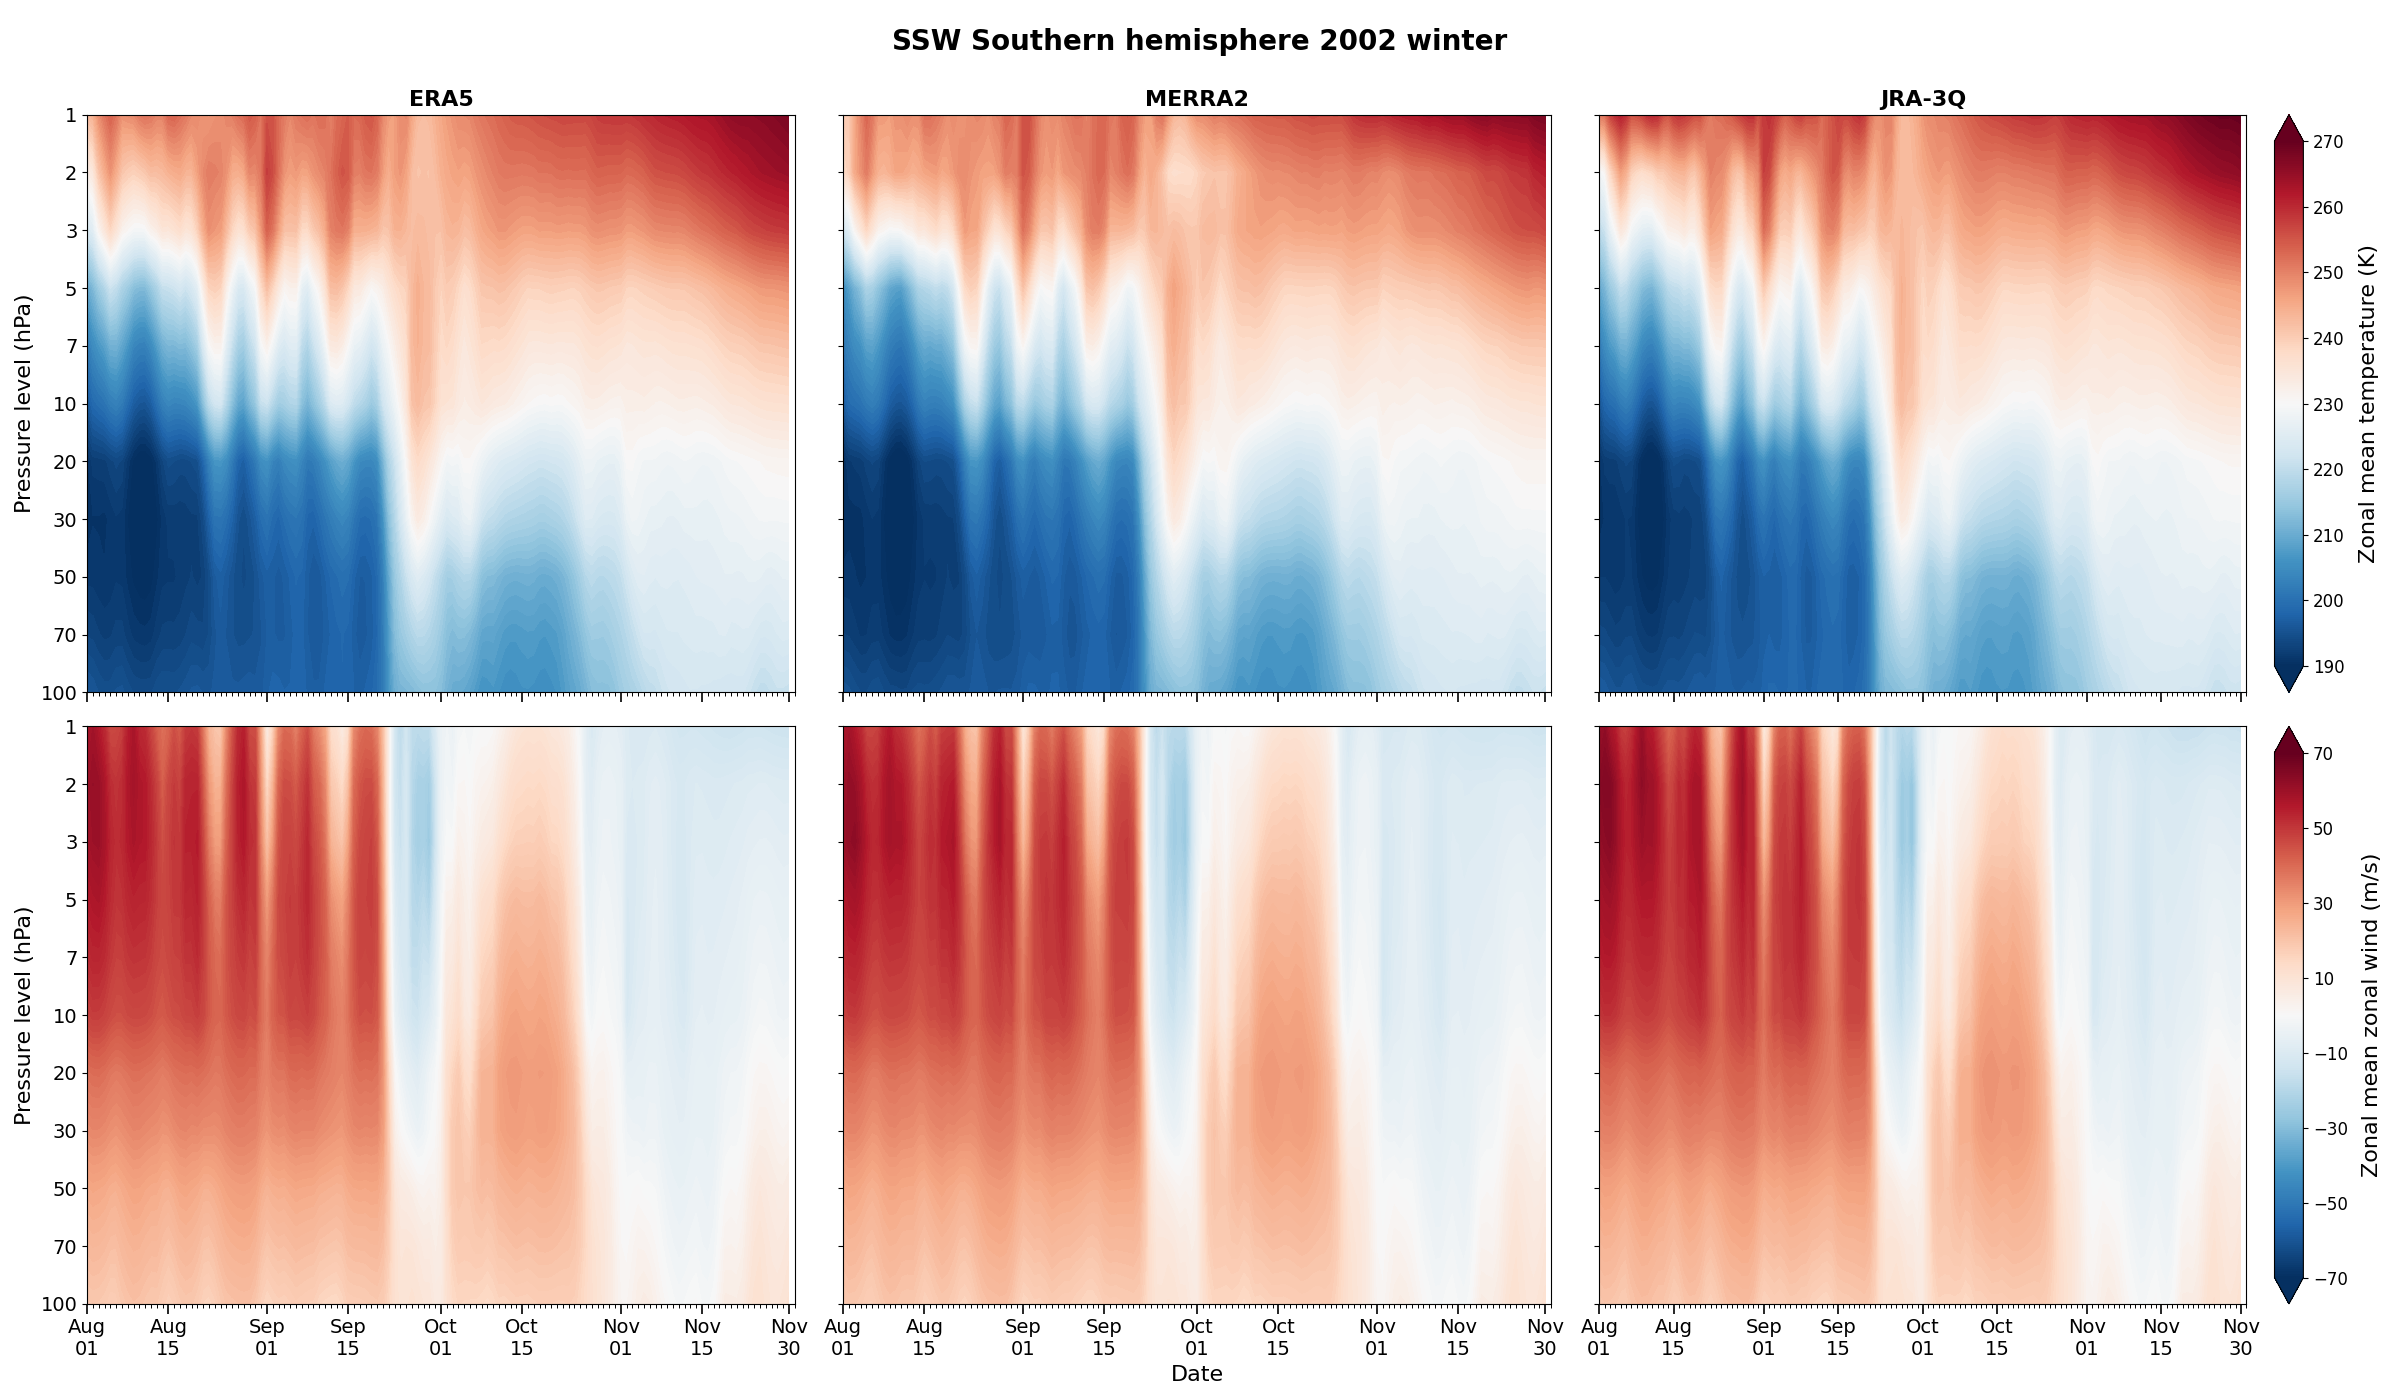
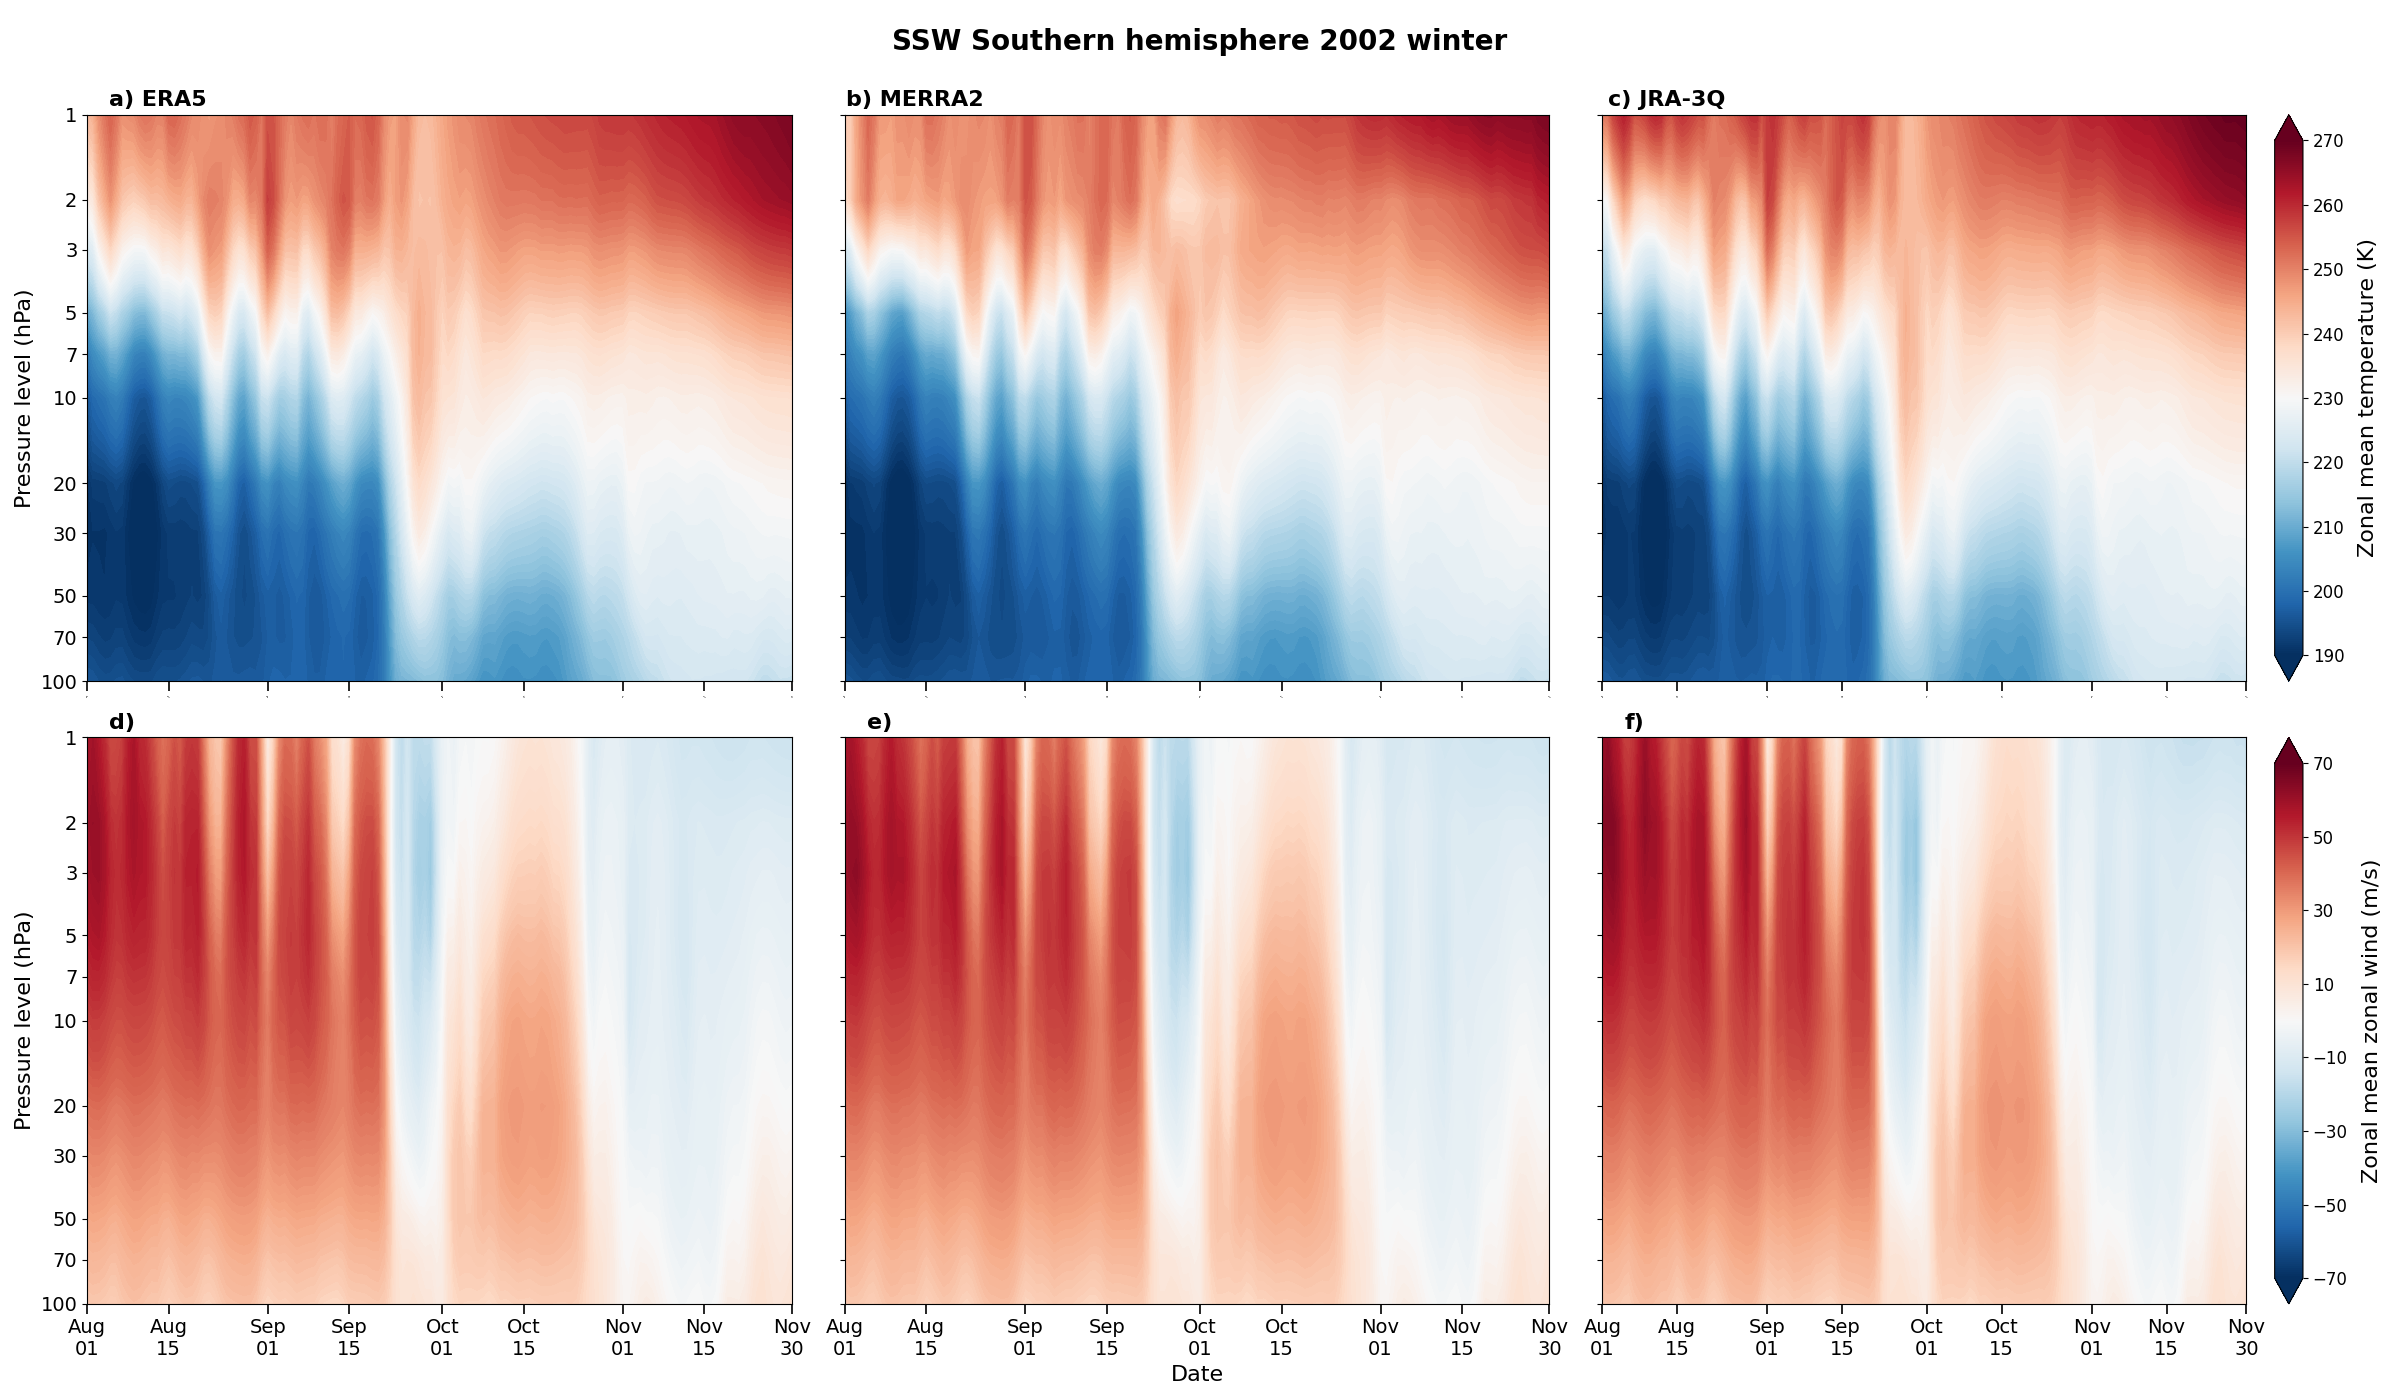
Fixed log scale on y axis

diff --git a/graphs.py b/graphs.py
@@ -5,20 +5,30 @@ from matplotlib.colors import TwoSlopeNorm
 from zpracovani import *
 
 def vykresli(ax, data, title, xlabels, ylabels, vmin=None, vmax=None, cmap='RdBu_r', p=0, d=False):
+    data = np.array(data)
+    y = np.array(ylabels, dtype=float)
+    x = np.arange(len(xlabels))
+
     if d:
-        cont = ax.contourf(np.array(data).T, cmap=cmap, vmin=(-max(abs(vmin), vmax, 4)), vmax=max(abs(vmin), vmax, 4), levels=100)
+        cont = ax.contourf(x, y, data.T, cmap=cmap, vmin=(-max(abs(vmin), vmax, 4)), vmax=max(abs(vmin), vmax, 4), levels=100)
     elif p >= 4:
-        cont = ax.contourf(np.array(data).T, cmap=cmap, vmin=(-max(abs(vmin), vmax, 70)), vmax=max(abs(vmin), vmax, 70), levels=100)
+        cont = ax.contourf(x, y, data.T, cmap=cmap, vmin=(-max(abs(vmin), vmax, 70)), vmax=max(abs(vmin), vmax, 70), levels=100)
     else:
-        cont = ax.contourf(np.array(data).T, cmap=cmap, vmin=round(int(vmin)/10)*10, vmax=vmax, levels=100)
+        cont = ax.contourf(x, y, data.T, cmap=cmap, vmin=round(int(vmin)/10)*10, vmax=vmax, levels=100)
+
+    ax.set_yscale('log')
+    ax.invert_yaxis()
+    ax.yaxis.set_minor_locator(mpl.ticker.NullLocator())  # ← vypne minor ticks
+
     if p == 1 or p == 4:
         ax.set_ylabel("Pressure level (hPa)", fontsize=16)
         ax.tick_params(axis='y', labelsize=14)
-        ax.set_yticks(range(len(ylabels)))
+        ax.set_yticks(y)
         ax.set_yticklabels(ylabels)
     else:
+        ax.set_yticks(y)
         ax.set_yticklabels([])
-        ax.set_yticks(range(len(ylabels)))
+
     if p == 1 or p == 2 or p == 3:
         ax.set_title(title, fontsize=16, weight='bold')
         ax.set_xticks([])
@@ -36,21 +46,20 @@ def vykresli(ax, data, title, xlabels, ylabels, vmin=None, vmax=None, cmap='RdBu
             xticklabels.append(format_date_label(label))
 
     ax.set_xticks(xticks)
-    minor_xticks = list(range(len(xlabels) + 1))
-    ax.set_xticks(minor_xticks, minor=True)
+    ax.set_xticklabels(xticklabels, fontsize=14 if p in (4, 5, 6) else 0)
 
     if p in (1, 2, 3):
-        ax.set_title(title, fontsize=16, weight='bold')
-        ax.set_xticklabels([])  # bez textu
-        ax.tick_params(axis='x', which='minor', length=3, width=0.7)
-        ax.tick_params(axis='x', which='major', length=7, width=1.2)
-
+        if d:
+            ax.set_title(title, fontsize=16, weight='bold', x=0.2)
+        else:
+            ax.set_title(title, fontsize=16, weight='bold', x=0.1)
+        ax.tick_params(axis='x', which='both', length=7, width=1.2)
     if p in (4, 5, 6):
+        ax.set_title(title, fontsize=16, weight='bold', x=0.05)
         if p == 5:
             ax.set_xlabel("Date", fontsize=16)
-        ax.set_xticklabels(xticklabels, fontsize=14)
-        ax.tick_params(axis='x', which='minor', length=3, width=0.7)
-        ax.tick_params(axis='x', which='major', length=7, width=1.2)
+        ax.tick_params(axis='x', which='both', length=7, width=1.2)
+
     if p == 6 and not d:
         sm = mpl.cm.ScalarMappable(norm=mpl.colors.Normalize(-70,70), cmap=cmap)
         sm.set_array([])
@@ -88,12 +97,12 @@ mt = mtf()
 ju, _, _ = juf()
 jt = jtf()
 
-lists_to_diff_list(eu, mu, ti, p, f"e_vs_m_u_{rok}.csv")
-lists_to_diff_list(et, mt, ti, p, f"e_vs_m_t_{rok}.csv")
-lists_to_diff_list(mu, ju, ti, p, f"m_vs_j_u_{rok}.csv")
-lists_to_diff_list(mt, jt, ti, p, f"m_vs_j_t_{rok}.csv")
-lists_to_diff_list(eu, ju, ti, p, f"e_vs_j_u_{rok}.csv")
-lists_to_diff_list(et, jt, ti, p, f"e_vs_j_t_{rok}.csv")
+lists_to_diff_list(eu, mu, ti, p, f"csv_diff/e_vs_m_u_{rok}.csv")
+lists_to_diff_list(et, mt, ti, p, f"csv_diff/e_vs_m_t_{rok}.csv")
+lists_to_diff_list(mu, ju, ti, p, f"csv_diff/m_vs_j_u_{rok}.csv")
+lists_to_diff_list(mt, jt, ti, p, f"csv_diff/m_vs_j_t_{rok}.csv")
+lists_to_diff_list(eu, ju, ti, p, f"csv_diff/e_vs_j_u_{rok}.csv")
+lists_to_diff_list(et, jt, ti, p, f"csv_diff/e_vs_j_t_{rok}.csv")
 
 eu_arr = np.array(eu)
 mu_arr = np.array(mu)
@@ -116,7 +125,7 @@ vmax_temp = max(np.max(et_arr), np.max(mt_arr), np.max(jt))
 fig, axs = plt.subplots(2, 3, figsize=(24, 14))
 axs = axs.flatten()
 
-tituly = ["ERA5", "MERRA2", "JRA-3Q", "", "", ""]
+tituly = ["a) ERA5", "b) MERRA2", "c) JRA-3Q", "d)", "e)", "f)"]
 
 data_sady = [et_arr, mt_arr, jt, eu_arr, mu_arr, ju]
 vmin_sady = [vmin_temp]*3 + [vmin_wind]*3
@@ -129,13 +138,13 @@ for ax, title, data, vmin_, vmax_ in zip(axs, tituly, data_sady, vmin_sady, vmax
 fig.suptitle(f"SSW Southern hemisphere {rok} winter\n", fontsize=20, weight='bold')
 
 plt.tight_layout()
-fig.savefig(f"All_{rok}.png")
+fig.savefig(f"graphs/All_{rok}.png")
 plt.close(fig)
 
 fig_all_diff, axs_all = plt.subplots(2, 3, figsize=(24, 14))
 axs_all = axs_all.flatten()
 
-tituly_diff_all = ["ERA5 vs. MERRA2", "ERA5 vs. JRA-3Q", "MERRA2 vs. JRA-3Q", "", "", ""]
+tituly_diff_all = ["a) ERA5 vs. MERRA2", "b) ERA5 vs. JRA-3Q", "c) MERRA2 vs. JRA-3Q", "d)", "e)", "f)"]
 pp = 0
 data_diff_all = [et_mt_diff, et_jt_diff, mt_jt_diff, eu_mu_diff, eu_ju_diff, mu_ju_diff]
 vlims_diff = [np.max(np.abs(d)) for d in data_diff_all]
@@ -146,7 +155,7 @@ for ax, title, data, vlim in zip(axs_all, tituly_diff_all, data_diff_all, vlims_
 fig_all_diff.suptitle(f"SSW Southern hemisphere {rok} winter\n", fontsize=20, weight='bold')
 
 plt.tight_layout()
-fig_all_diff.savefig(f"All_differences_{rok}.png")
+fig_all_diff.savefig(f"graphs/All_differences_{rok}.png")
 plt.close(fig_all_diff)
 
 detailni_indexy = [i for i, hladina in enumerate(p) if 1 <= hladina <= 10]
@@ -184,7 +193,7 @@ detail_vmax_temp = max(np.max(detail_et), np.max(detail_mt), np.max(detail_jt))
 fig_detail, axs_detail = plt.subplots(2, 3, figsize=(24, 14))
 axs_detail = axs_detail.flatten()
 
-tituly_detail = ["ERA5", "MERRA2", "JRA-3Q", "", "", ""]
+tituly_detail = ["a) ERA5", "b) MERRA2", "c) JRA-3Q", "d)", "e)", "f)"]
 
 data_sady_detail = [detail_et, detail_mt, detail_jt, detail_eu, detail_mu, detail_ju]
 vmin_sady_detail = [detail_vmin_temp]*3 + [detail_vmin_wind]*3
@@ -197,14 +206,13 @@ for ax, title, data, vmin_, vmax_ in zip(axs_detail, tituly_detail, data_sady_de
 fig_detail.suptitle(f"SSW Southern hemisphere {rok} winter\n", fontsize=20, weight='bold')
 
 plt.tight_layout()
-fig_detail.savefig(f"All_detailed_1_10_{rok}.png")
+fig_detail.savefig(f"graphs/All_detailed_1_10_{rok}.png")
 plt.close(fig_detail)
 
 fig_detail_diff, axs_detail_diff = plt.subplots(2, 3, figsize=(24, 14))
 axs_detail_diff = axs_detail_diff.flatten()
 
-tituly_diff_detail = ["ERA5 vs. MERRA2", "ERA5 vs. JRA-3Q", "MERRA2 vs. JRA-3Q", "", "", ""]
-# a), ... f)
+tituly_diff_detail = ["a) ERA5 vs. MERRA2", "b) ERA5 vs. JRA-3Q", "c) MERRA2 vs. JRA-3Q", "d)", "e)", "f)"]
 
 data_diff_detail = [detail_et_mt_diff, detail_et_jt_diff, detail_mt_jt_diff, detail_eu_mu_diff, detail_eu_ju_diff, detail_mu_ju_diff]
 vlims_diff_detail = [np.max(np.abs(d)) for d in data_diff_detail]
@@ -216,5 +224,5 @@ for ax, title, data, vlim in zip(axs_detail_diff, tituly_diff_detail, data_diff_
 fig_detail_diff.suptitle(f"SSW Southern hemisphere {rok} winter\n", fontsize=20, weight='bold')
 
 plt.tight_layout()
-fig_detail_diff.savefig(f"All_differences_detailed_1_10_{rok}.png")
+fig_detail_diff.savefig(f"graphs/All_differences_detailed_1_10_{rok}.png")
 plt.close(fig_detail_diff)
